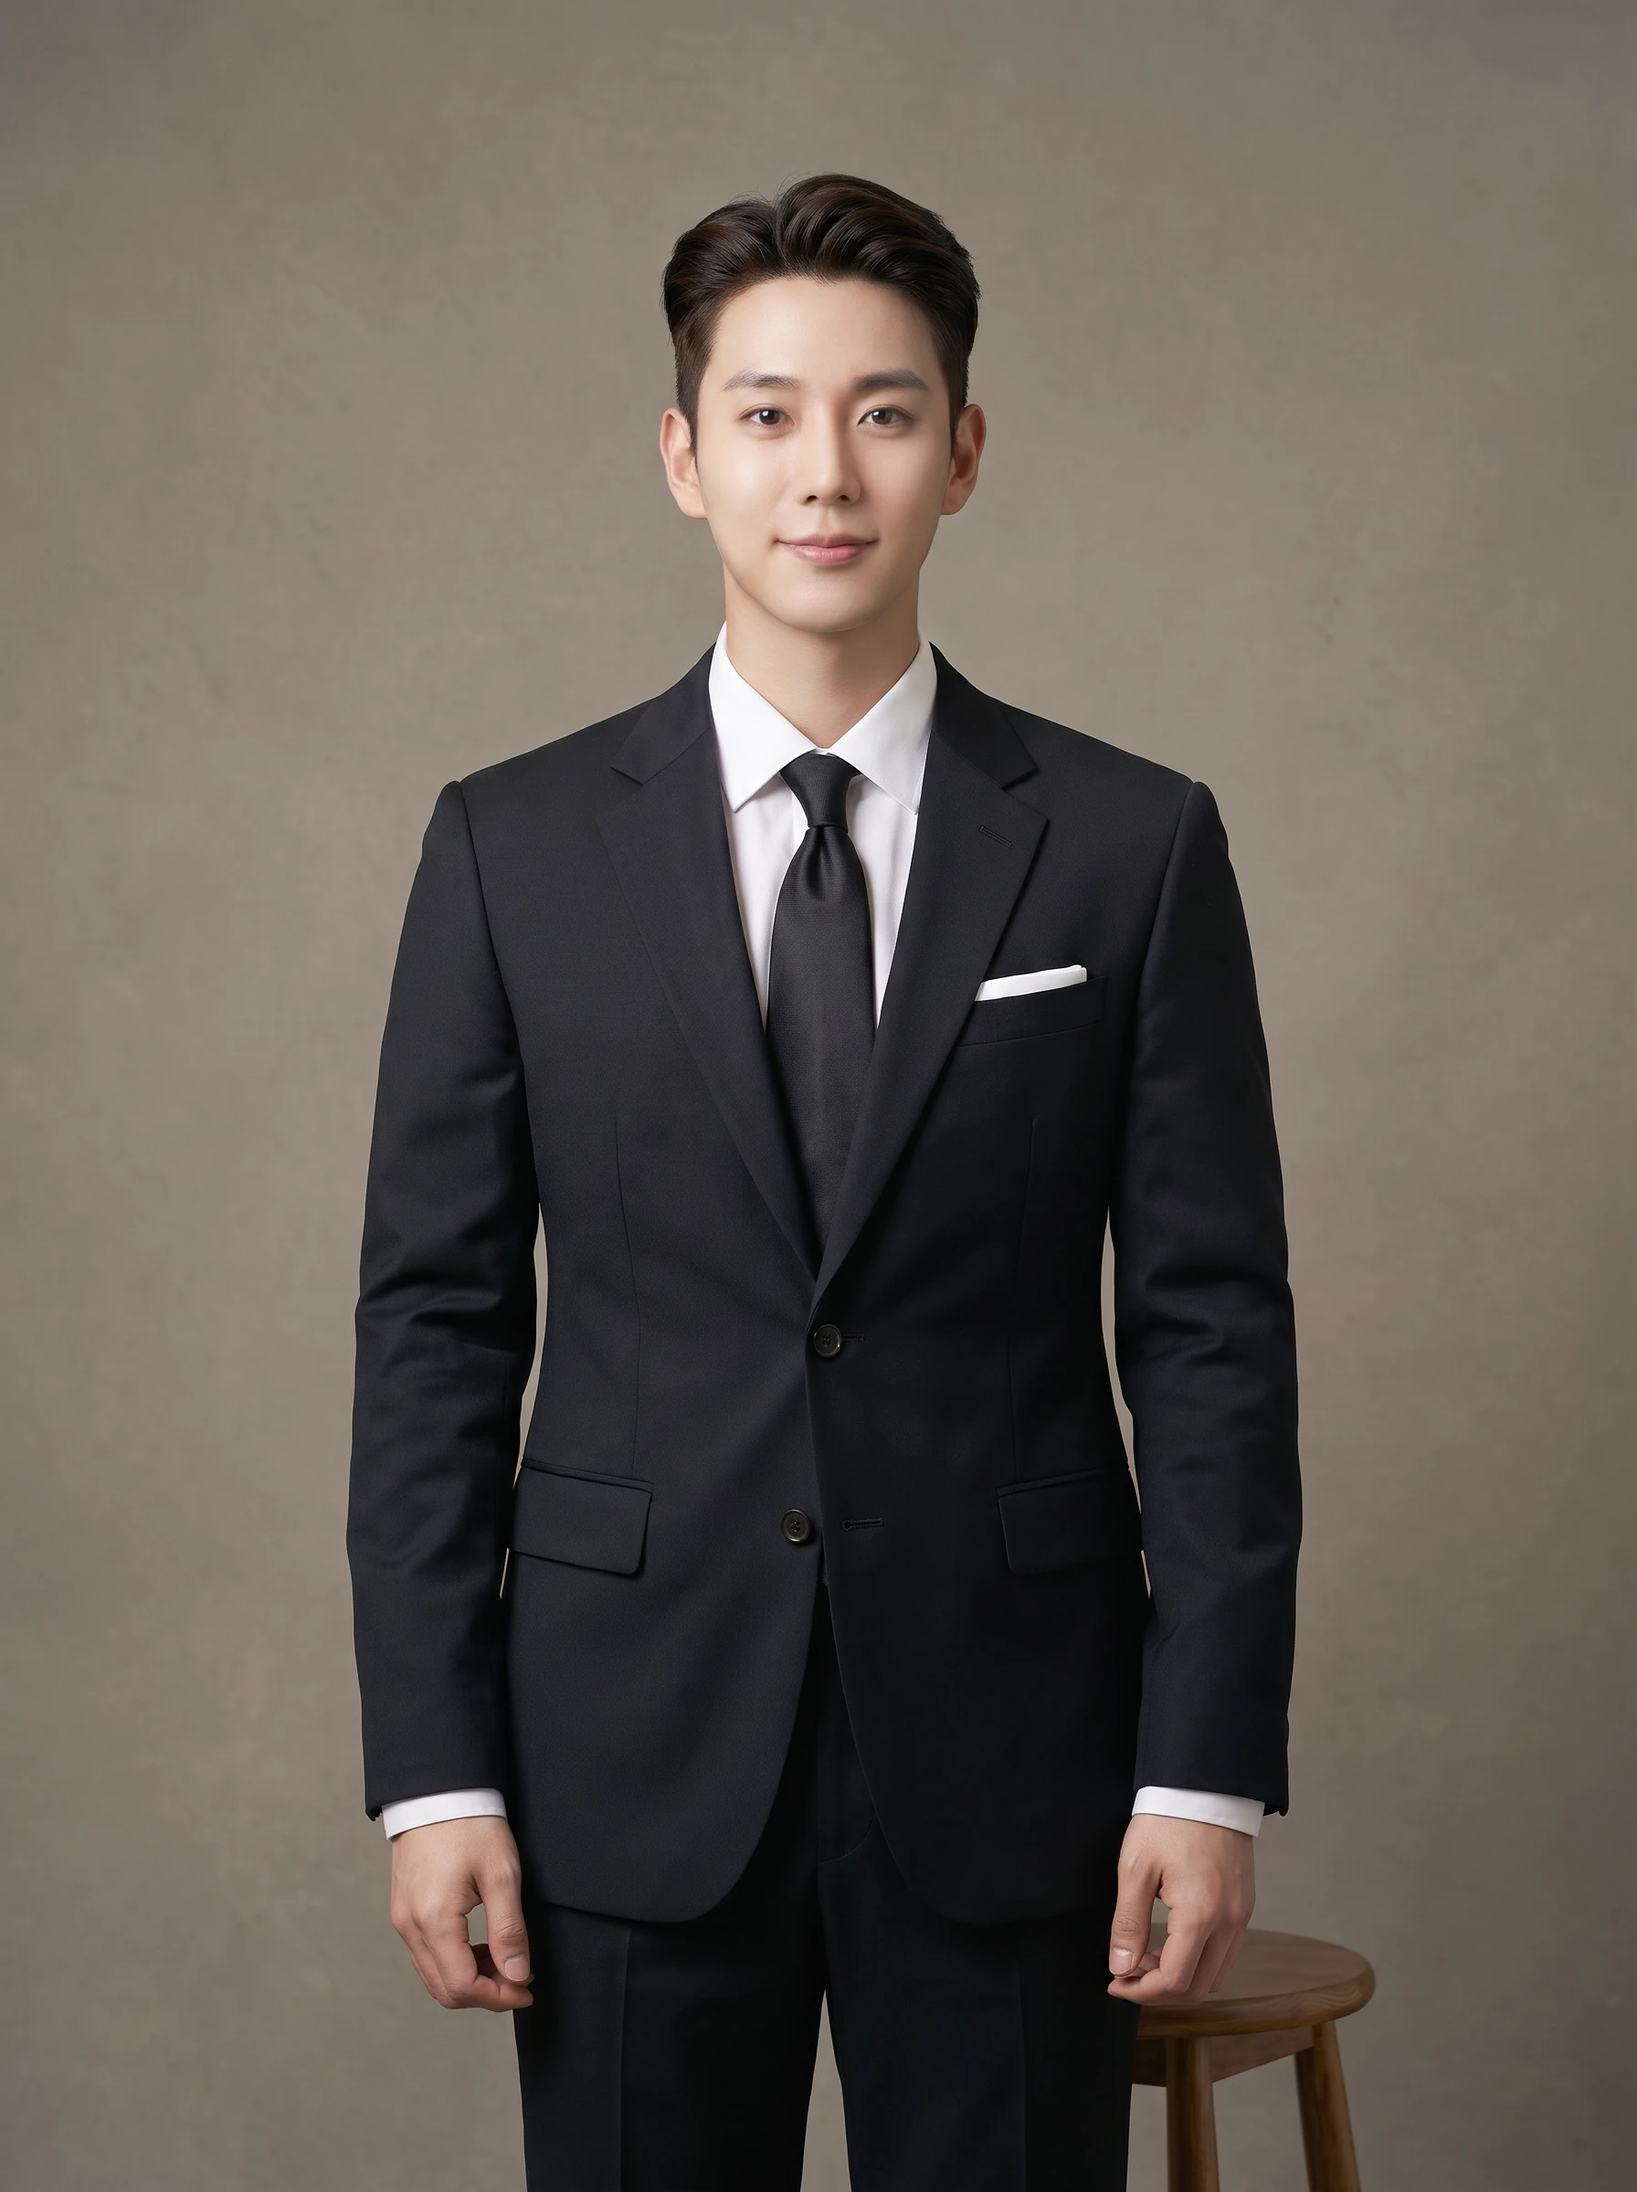
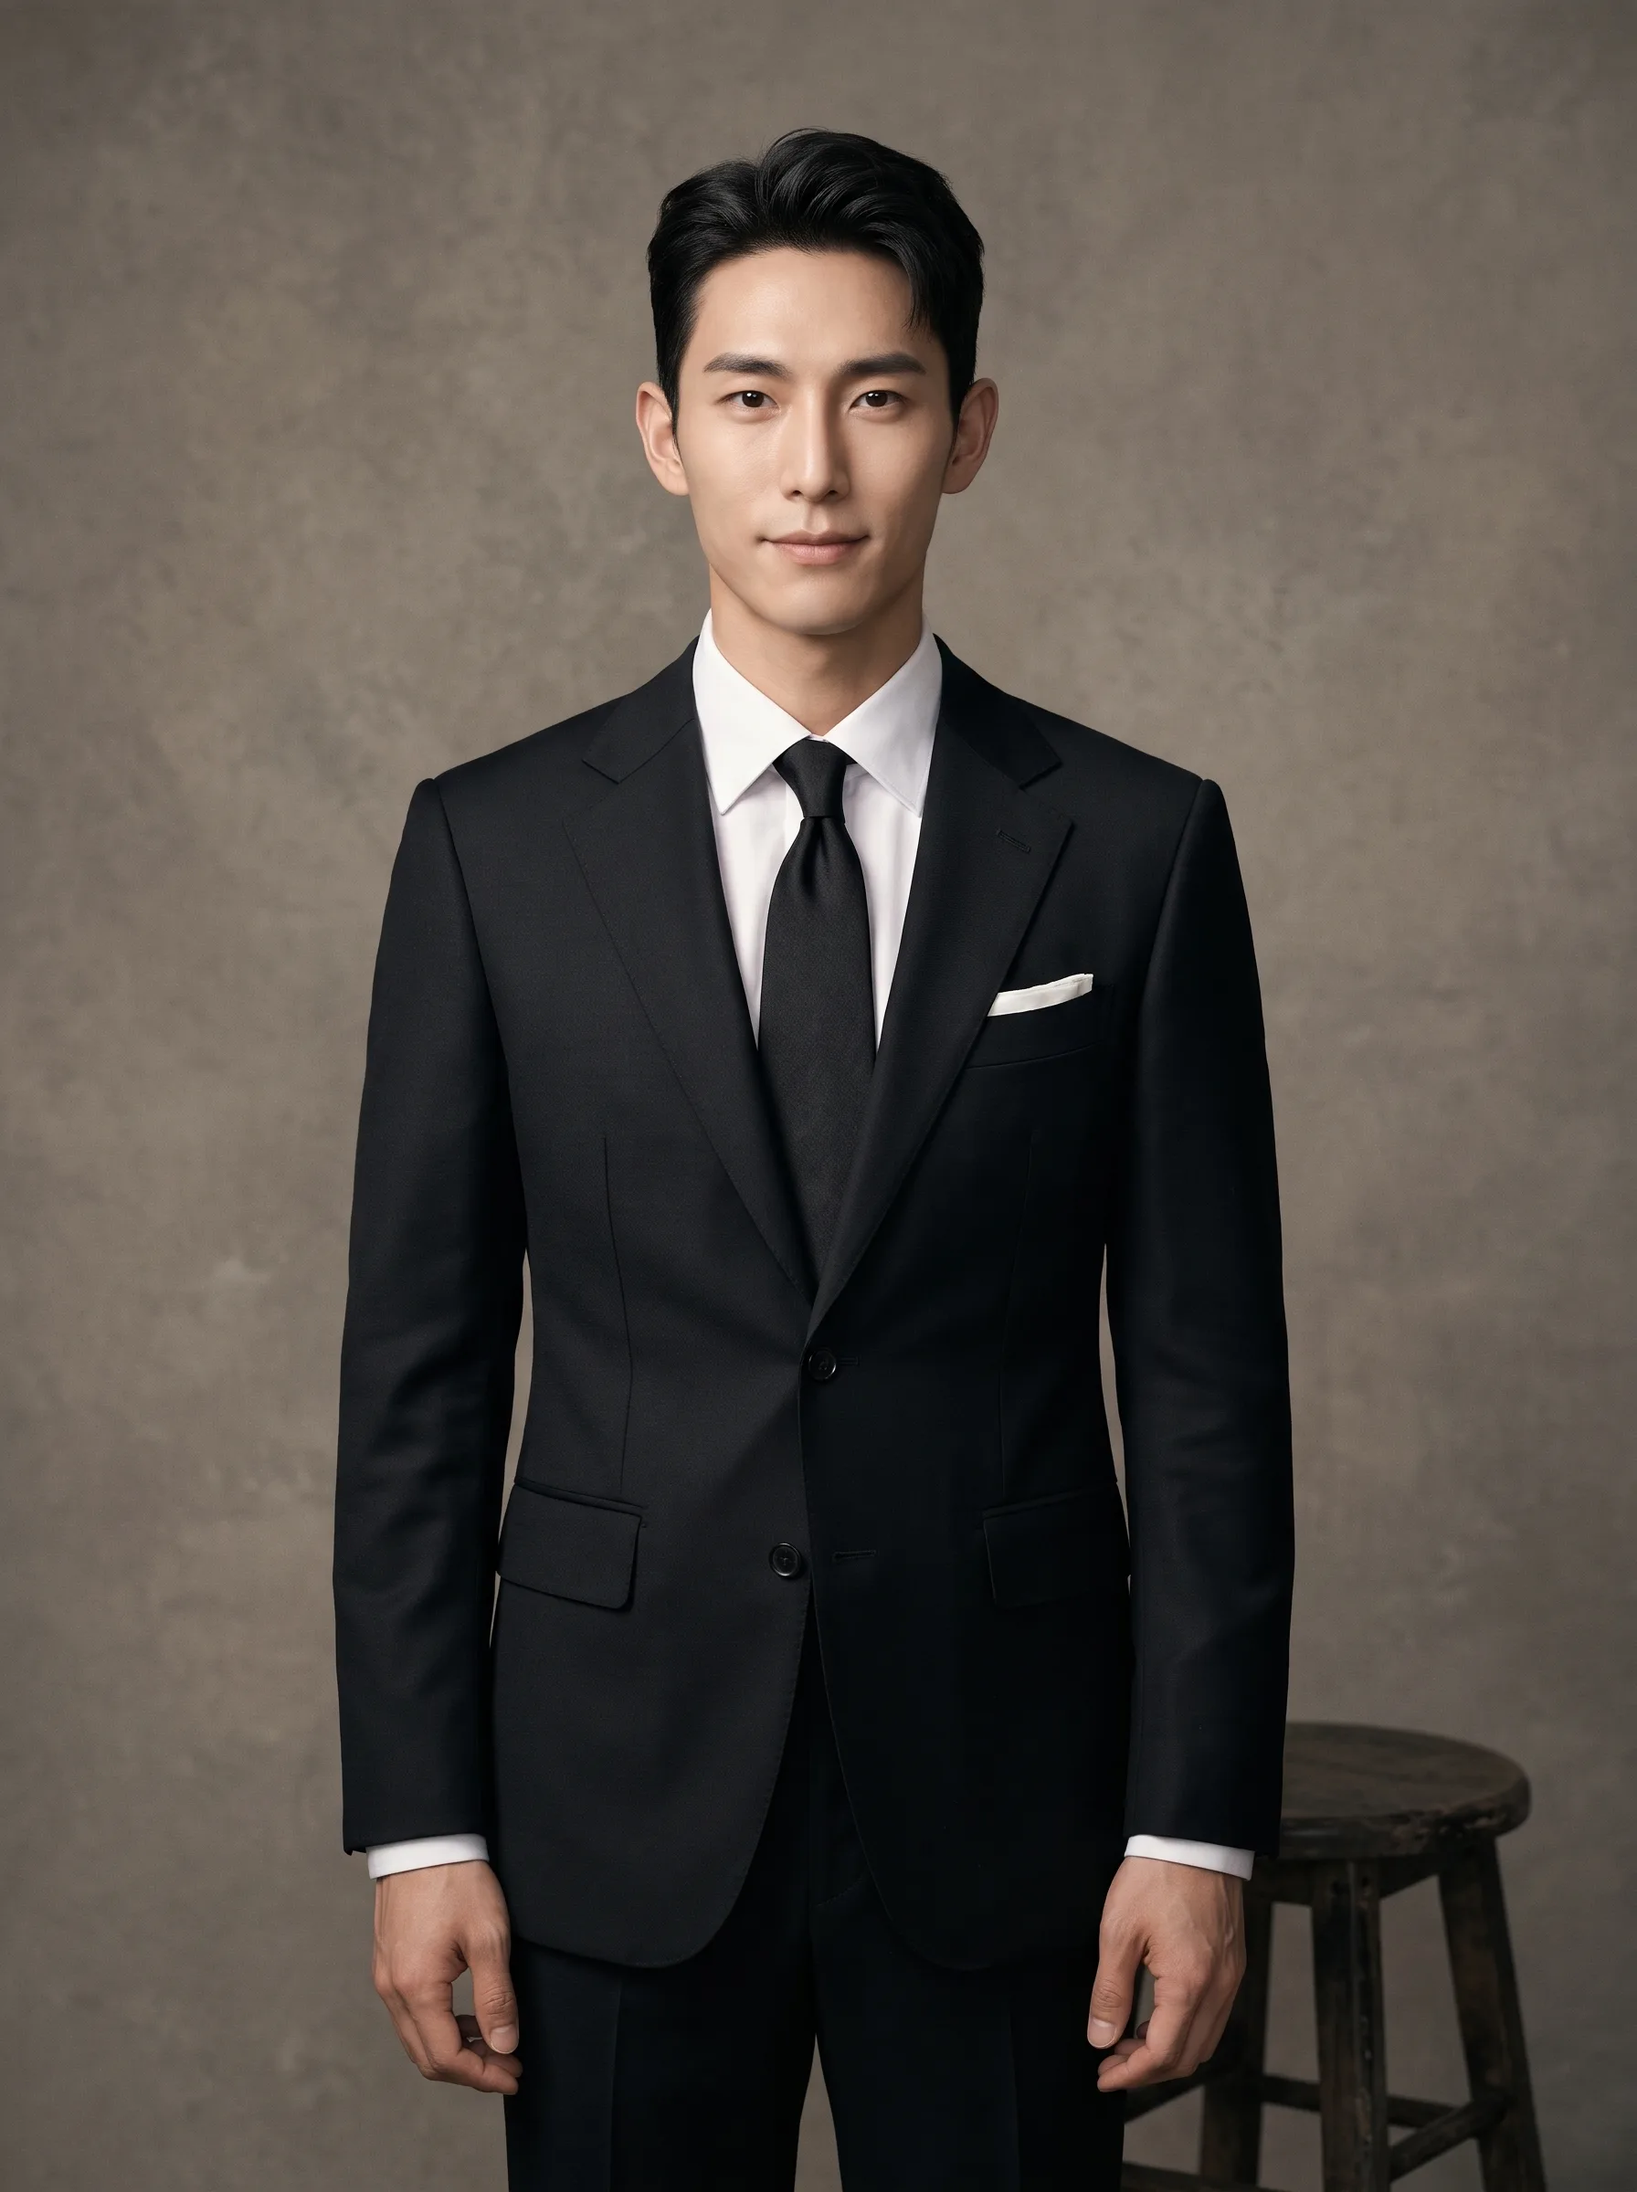
concepts: 스튜디오 프로필 735 샘플 얼굴 교체 — 조명 장비 안 보이는 컷으로 다시 뽑음(오너), sw v259
Claude-Session: https://claude.ai/code/session_01H2YvAQhUpTna7rrNEqetDc

diff --git a/public/sw.js b/public/sw.js
@@ -10,7 +10,7 @@
 // 새 버전 배포 시: 아래 VERSION 만 올리면 됨.
 // ============================================================
 
-const VERSION = "v258";
+const VERSION = "v259";
 const STATIC_CACHE = `rimikimi-static-${VERSION}`;
 const THUMB_CACHE = `rimikimi-thumbs-${VERSION}`;
 const DATA_CACHE = `rimikimi-data-${VERSION}`;
